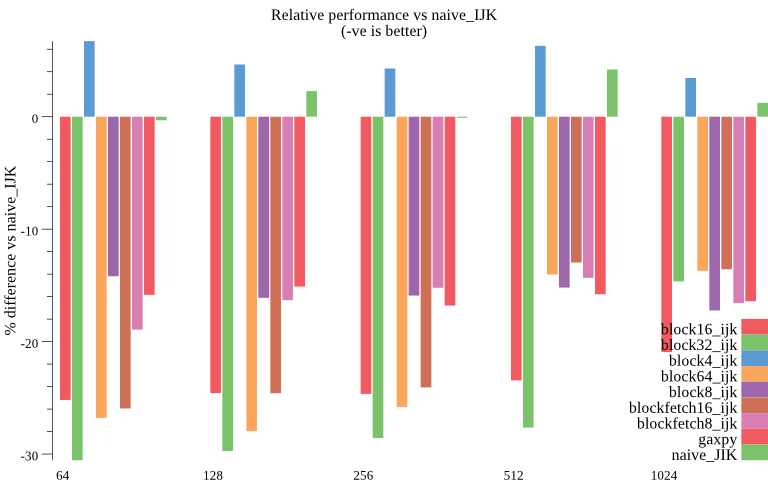
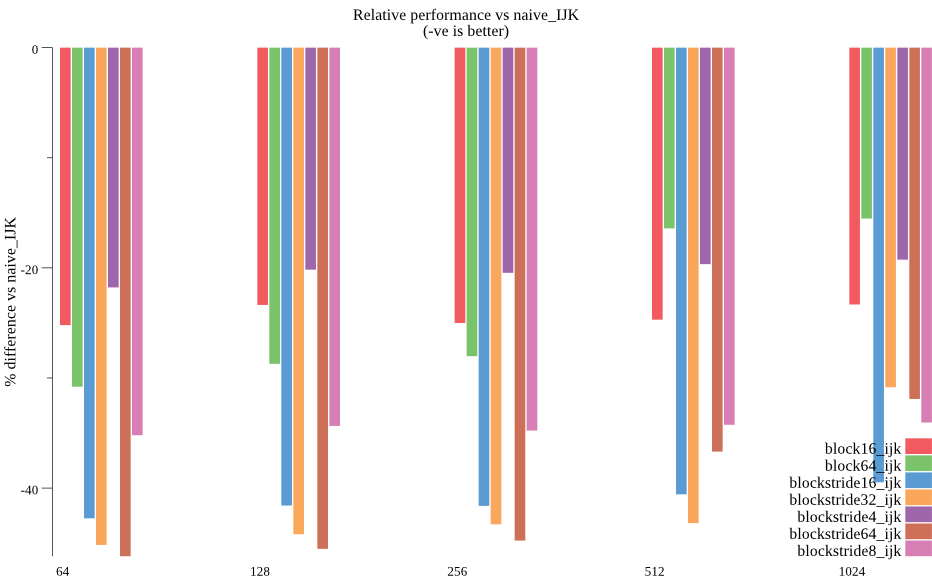
Add MulBlockStride function

diff --git a/mat/product.go b/mat/product.go
@@ -312,6 +312,45 @@ func MulBlockIJK(blockSize int) func(c, a, b *Dense) error {
 	}
 }
 
+// MulBlockStrideIJK is lazily implemented if any of the dims aren't divisible by block size it defers to naive IJK.
+func MulBlockStrideIJK(blockSize int) func(c, a, b *Dense) error {
+	return func(c, a, b *Dense) error {
+		aCols := a.Columns()
+		aRows := a.Rows()
+		bCols := b.Columns()
+		var data = c.data
+
+		if aCols%blockSize != 0 || aRows%blockSize != 0 || bCols%blockSize != 0 {
+			return MulNaiveIJK(c, a, b)
+		}
+
+		for ar := 0; ar < aRows; ar += blockSize {
+			for ac := 0; ac < aCols; ac += blockSize {
+				for bc := 0; bc < bCols; bc += blockSize {
+					for arb := ar; arb < ar+blockSize; arb++ {
+						dib := arb * bCols
+						aib := arb * aCols
+						for acb := ac; acb < ac+blockSize; acb++ {
+							bib := acb * bCols
+							ai := aib + acb
+							s := a.data[ai]
+							for bcb := bc; bcb < bc+blockSize; bcb += 4 {
+								di := dib + bcb
+								bi := bib + bcb
+								data[di] += s * b.data[bi]
+								data[di+1] += s * b.data[bi+1]
+								data[di+2] += s * b.data[bi+2]
+								data[di+3] += s * b.data[bi+3]
+							}
+						}
+					}
+				}
+			}
+		}
+		return nil
+	}
+}
+
 // MulBlockIJK is lazily implemented if any of the dims aren't divisible by block size it defers to naive IJK.
 func MulBlockFetchIJK(blockSize int) func(c, a, b *Dense) error {
 	return func(c, a, b *Dense) error {

diff --git a/mat/dense_test.go b/mat/dense_test.go
@@ -21,6 +21,11 @@ var ff = []struct {
 	{"block16 ijk", mat.MulBlockIJK(16)},
 	{"block32 ijk", mat.MulBlockIJK(32)},
 	{"block64 ijk", mat.MulBlockIJK(64)},
+	{"blockstride4 ijk", mat.MulBlockStrideIJK(4)},
+	{"blockstride8 ijk", mat.MulBlockStrideIJK(8)},
+	{"blockstride16 ijk", mat.MulBlockStrideIJK(16)},
+	{"blockstride32 ijk", mat.MulBlockStrideIJK(32)},
+	{"blockstride64 ijk", mat.MulBlockStrideIJK(64)},
 	{"blockfetch2 ijk", mat.MulBlockFetchIJK(2)},
 	{"blockfetch4 ijk", mat.MulBlockFetchIJK(4)},
 	{"blockfetch8 ijk", mat.MulBlockFetchIJK(8)},
